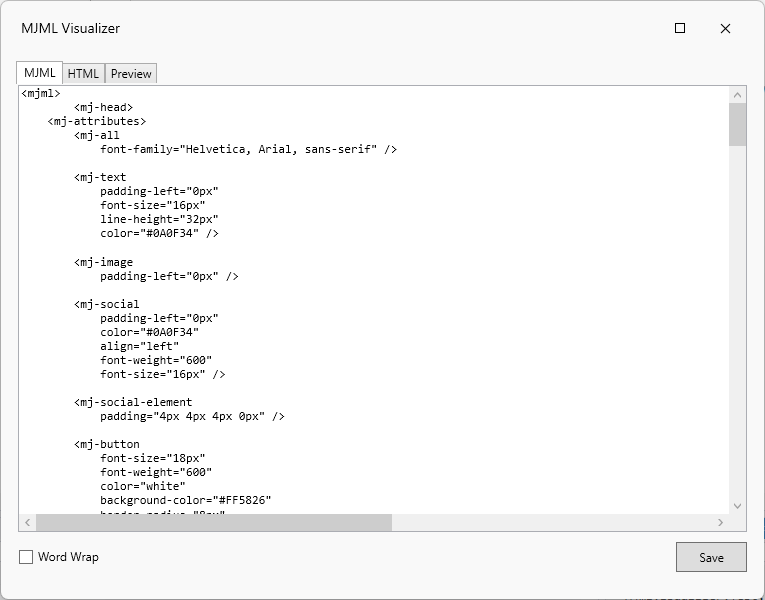
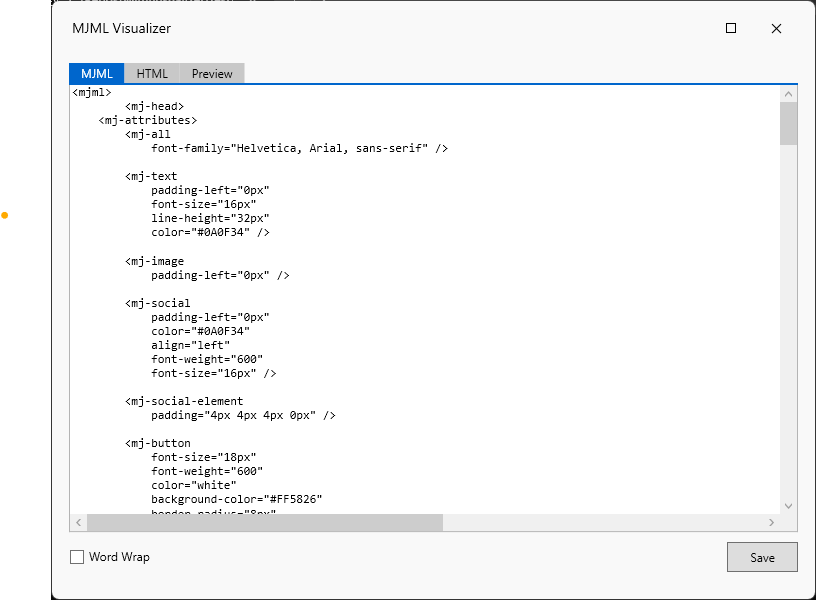
Improve styling

diff --git a/src/MjmlVisualizer/Windows/MjmlVisualizerWindow.xaml b/src/MjmlVisualizer/Windows/MjmlVisualizerWindow.xaml
@@ -18,6 +18,7 @@
             <ResourceDictionary.MergedDictionaries>
                 <ResourceDictionary Source="../Styles/TitleBarButtonStyle.xaml" />
                 <ResourceDictionary Source="../Styles/TitleBarCloseButtonStyle.xaml" />
+                <ResourceDictionary Source="../Styles/TabItemStyle.xaml" />
             </ResourceDictionary.MergedDictionaries>
         </ResourceDictionary>
     </Window.Resources>
@@ -65,31 +66,36 @@
 			            StrokeThickness="1" />
             </Button>
         </Grid>
-        
+
         <TabControl Grid.Row="1" Background="Transparent" BorderThickness="0">
-            <TabItem Header="MJML">
-                <Grid>
+            <TabItem Header="MJML" Style="{StaticResource TabItemStyle}">
+                <Grid Margin="0 -2 0 0">
                     <Grid.RowDefinitions>
                         <RowDefinition Height="*" />
                         <RowDefinition Height="Auto" />
                     </Grid.RowDefinitions>
-
-                    <TextBox
-                        Text="{Binding Path=MJML, Mode=OneWay}"
-                        HorizontalScrollBarVisibility="Auto"
-                        VerticalScrollBarVisibility="Auto"
-                        IsReadOnly="True"
-                        FontFamily="'Cascadia Mono', 'Cascadia Code', Consolas, 'Courier New', monospace">
-                        <TextBox.Style>
-                            <Style TargetType="{x:Type TextBox}">
-                                <Style.Triggers>
-                                    <DataTrigger Binding="{Binding IsChecked, ElementName=MjmlWordWrap}" Value="True">
-                                        <Setter Property="TextWrapping" Value="Wrap" />
-                                    </DataTrigger>
-                                </Style.Triggers>
-                            </Style>
-                        </TextBox.Style>
-                    </TextBox>
+                    
+                    <Border BorderThickness="0, 2, 0, 0" BorderBrush="{DynamicResource {x:Static SystemColors.HotTrackBrushKey}}">
+                        <Border BorderThickness="1, 0, 1, 1" BorderBrush="{DynamicResource {x:Static SystemColors.ActiveBorderBrushKey}}">
+                            <TextBox
+                                Text="{Binding Path=MJML, Mode=OneWay}"
+                                HorizontalScrollBarVisibility="Auto"
+                                VerticalScrollBarVisibility="Auto"
+                                IsReadOnly="True"
+                                FontFamily="'Cascadia Mono', 'Cascadia Code', Consolas, 'Courier New', monospace"
+                                BorderThickness="0">
+                                <TextBox.Style>
+                                    <Style TargetType="{x:Type TextBox}">
+                                        <Style.Triggers>
+                                            <DataTrigger Binding="{Binding IsChecked, ElementName=MjmlWordWrap}" Value="True">
+                                                <Setter Property="TextWrapping" Value="Wrap" />
+                                            </DataTrigger>
+                                        </Style.Triggers>
+                                    </Style>
+                                </TextBox.Style>
+                            </TextBox>
+                        </Border>
+                    </Border>
 
                     <Grid Grid.Row="1" Margin="0 10">
                         <Grid.ColumnDefinitions>
@@ -111,29 +117,35 @@
                     </Grid>
                 </Grid>
             </TabItem>
-            <TabItem Header="HTML">
-                <Grid>
+            
+            <TabItem Header="HTML" Style="{StaticResource TabItemStyle}">
+                <Grid Margin="0 -2 0 0">
                     <Grid.RowDefinitions>
                         <RowDefinition Height="*" />
                         <RowDefinition Height="Auto" />
                     </Grid.RowDefinitions>
 
-                    <TextBox
-                        Text="{Binding Path=HTML, Mode=OneWay}"
-                        HorizontalScrollBarVisibility="Auto"
-                        VerticalScrollBarVisibility="Auto"
-                        IsReadOnly="True"
-                        FontFamily="'Cascadia Mono', 'Cascadia Code', Consolas, 'Courier New', monospace">
-                        <TextBox.Style>
-                            <Style TargetType="{x:Type TextBox}">
-                                <Style.Triggers>
-                                    <DataTrigger Binding="{Binding IsChecked, ElementName=HtmlWordWrap}" Value="True">
-                                        <Setter Property="TextWrapping" Value="Wrap" />
-                                    </DataTrigger>
-                                </Style.Triggers>
-                            </Style>
-                        </TextBox.Style>
-                    </TextBox>
+                    <Border BorderThickness="0, 2, 0, 0" BorderBrush="{DynamicResource {x:Static SystemColors.HotTrackBrushKey}}">
+                        <Border BorderThickness="1, 0, 1, 1" BorderBrush="{DynamicResource {x:Static SystemColors.ActiveBorderBrushKey}}">
+                            <TextBox
+                                Text="{Binding Path=HTML, Mode=OneWay}"
+                                HorizontalScrollBarVisibility="Auto"
+                                VerticalScrollBarVisibility="Auto"
+                                IsReadOnly="True"
+                                FontFamily="'Cascadia Mono', 'Cascadia Code', Consolas, 'Courier New', monospace"
+                                BorderThickness="0">
+                                <TextBox.Style>
+                                    <Style TargetType="{x:Type TextBox}">
+                                        <Style.Triggers>
+                                            <DataTrigger Binding="{Binding IsChecked, ElementName=HtmlWordWrap}" Value="True">
+                                                <Setter Property="TextWrapping" Value="Wrap" />
+                                            </DataTrigger>
+                                        </Style.Triggers>
+                                    </Style>
+                                </TextBox.Style>
+                            </TextBox>
+                        </Border>
+                    </Border>
 
                     <Grid Grid.Row="1" Margin="0 10">
                         <Grid.ColumnDefinitions>
@@ -155,16 +167,18 @@
                     </Grid>
                 </Grid>
             </TabItem>
-            
-            <TabItem Header="Preview">
-                <Grid>
+
+            <TabItem Header="Preview"  Style="{StaticResource TabItemStyle}">
+                <Grid Margin="0 -2 0 0">
                     <Grid.RowDefinitions>
                         <RowDefinition Height="*" />
                         <RowDefinition Height="Auto" />
                     </Grid.RowDefinitions>
 
-                    <Border BorderThickness="1" BorderBrush="{DynamicResource {x:Static SystemColors.ActiveBorderBrushKey}}">
-                        <WebBrowser x:Name="PreviewWebBrowser" behaviors:BrowserBehavior.Html="{Binding HTML}" />
+                    <Border BorderThickness="0, 2, 0, 0" BorderBrush="{DynamicResource {x:Static SystemColors.HotTrackBrushKey}}">
+                        <Border BorderThickness="1, 0, 1, 1" BorderBrush="{DynamicResource {x:Static SystemColors.ActiveBorderBrushKey}}">
+                            <WebBrowser x:Name="PreviewWebBrowser" behaviors:BrowserBehavior.Html="{Binding HTML}" />
+                        </Border>
                     </Border>
 
                     <Grid Grid.Row="1" Margin="0 10">

diff --git a/src/MjmlVisualizer/Styles/TabItemStyle.xaml b/src/MjmlVisualizer/Styles/TabItemStyle.xaml
@@ -1,0 +1,50 @@
+<ResourceDictionary xmlns="http://schemas.microsoft.com/winfx/2006/xaml/presentation"
+                    xmlns:x="http://schemas.microsoft.com/winfx/2006/xaml">
+
+    <Style x:Key="TabItemStyle" TargetType="{x:Type TabItem}">
+        <Setter Property="Template">
+            <Setter.Value>
+                <ControlTemplate TargetType="{x:Type TabItem}">
+                    <Border>
+                        <Grid>
+                            <Border x:Name="border"
+                                Background="{DynamicResource {x:Static SystemColors.ScrollBarBrushKey}}">
+                                <ContentPresenter x:Name="cp" ContentSource="Header"
+                                    Margin="12,2,12,2"
+                                    HorizontalAlignment="{TemplateBinding HorizontalContentAlignment}"
+                                    VerticalAlignment="{TemplateBinding VerticalContentAlignment}" />
+                            </Border>
+                        </Grid>
+                    </Border>
+                    <ControlTemplate.Triggers>
+                        <Trigger Property="IsMouseOver" Value="True">
+                            <Setter TargetName="border"
+                                    Property="Background"
+                                    Value="{DynamicResource {x:Static SystemColors.HotTrackBrushKey}}" />
+                            <Setter TargetName="cp"
+                                    Property="TextElement.Foreground"
+                                    Value="{DynamicResource {x:Static SystemColors.HighlightTextBrushKey}}" />
+                        </Trigger>
+                        <Trigger Property="IsSelected" Value="True">
+                            <Setter TargetName="border"
+                                    Property="Background"
+                                    Value="{DynamicResource {x:Static SystemColors.HotTrackBrushKey}}" />
+                            <Setter TargetName="cp"
+                                    Property="TextElement.Foreground"
+                                    Value="{DynamicResource {x:Static SystemColors.HighlightTextBrushKey}}" />
+                        </Trigger>
+                        <Trigger Property="IsSelected" Value="False">
+                            <Setter TargetName="border"
+                                    Property="Background"
+                                    Value="{DynamicResource {x:Static SystemColors.ScrollBarBrushKey}}" />
+                            <Setter TargetName="cp"
+                                    Property="TextElement.Foreground"
+                                    Value="{DynamicResource {x:Static SystemColors.InactiveCaptionTextBrushKey}}" />
+                        </Trigger>
+                    </ControlTemplate.Triggers>
+                </ControlTemplate>
+            </Setter.Value>
+        </Setter>
+    </Style>
+
+</ResourceDictionary>
